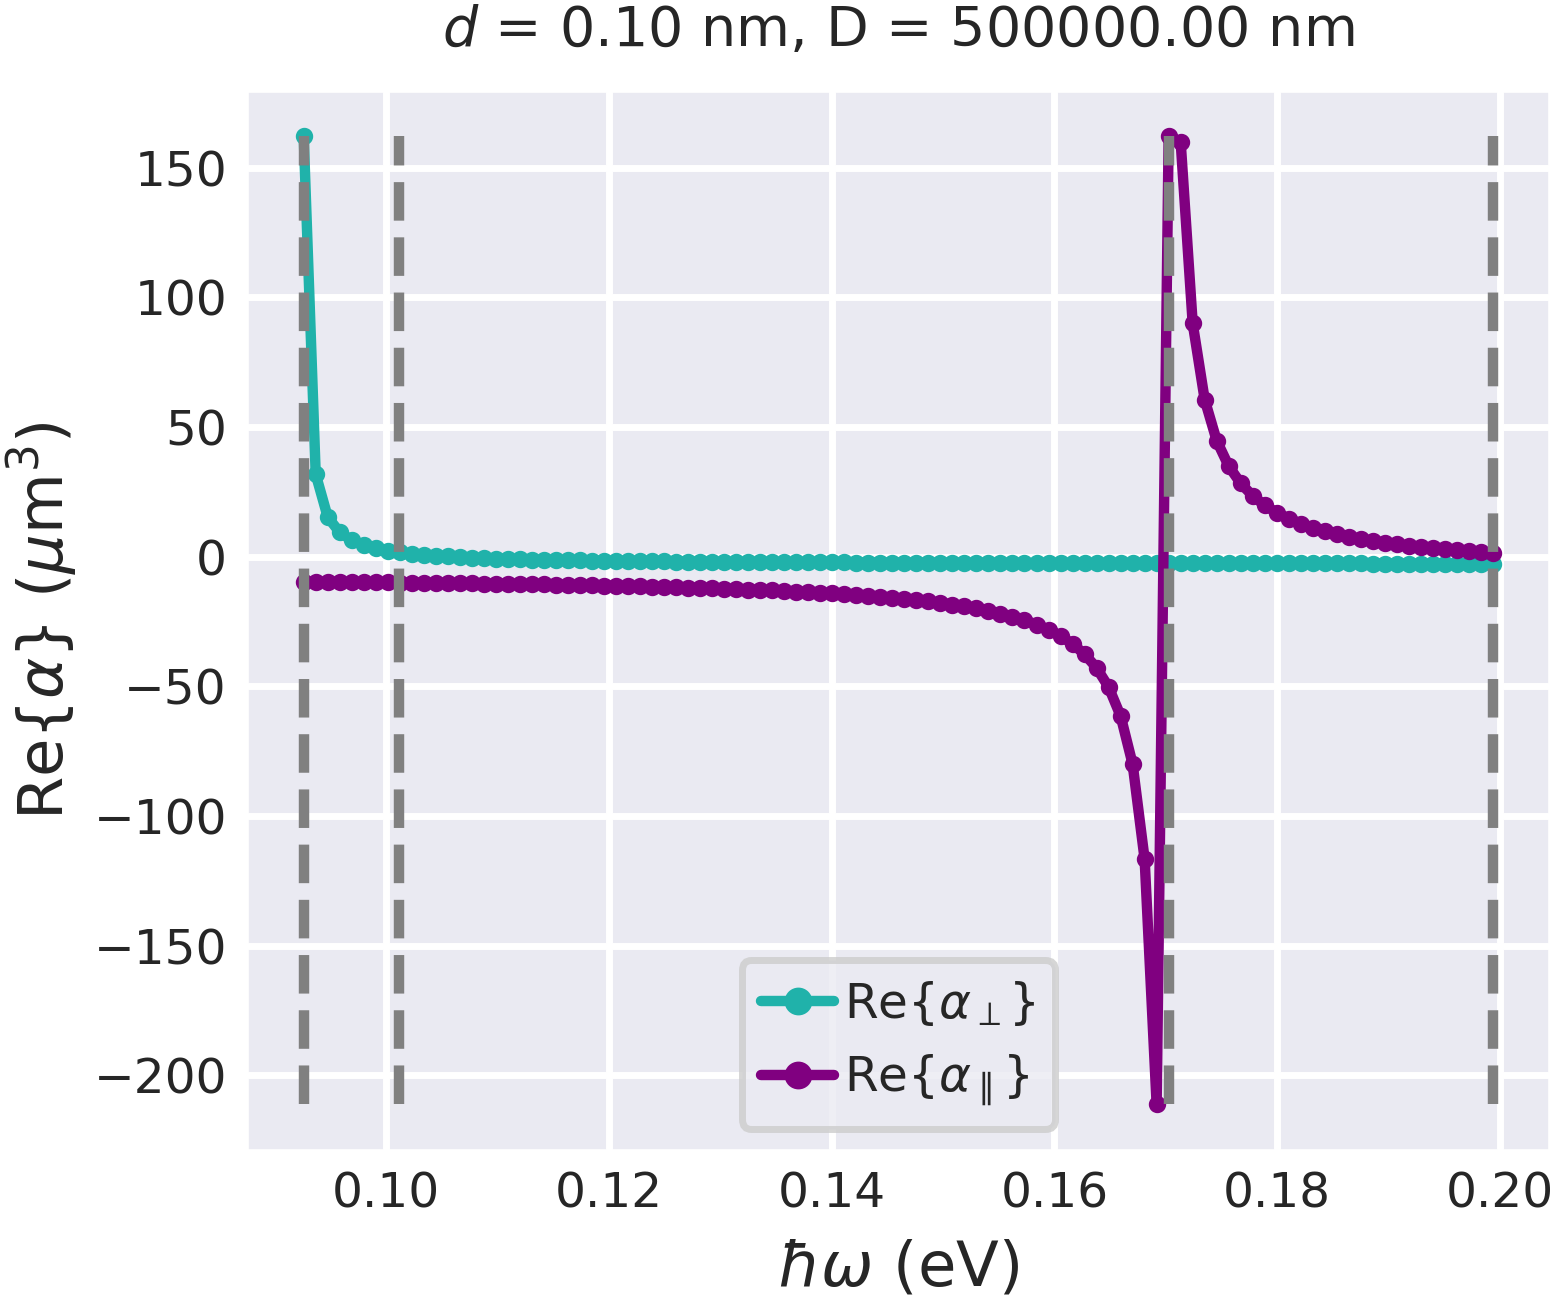
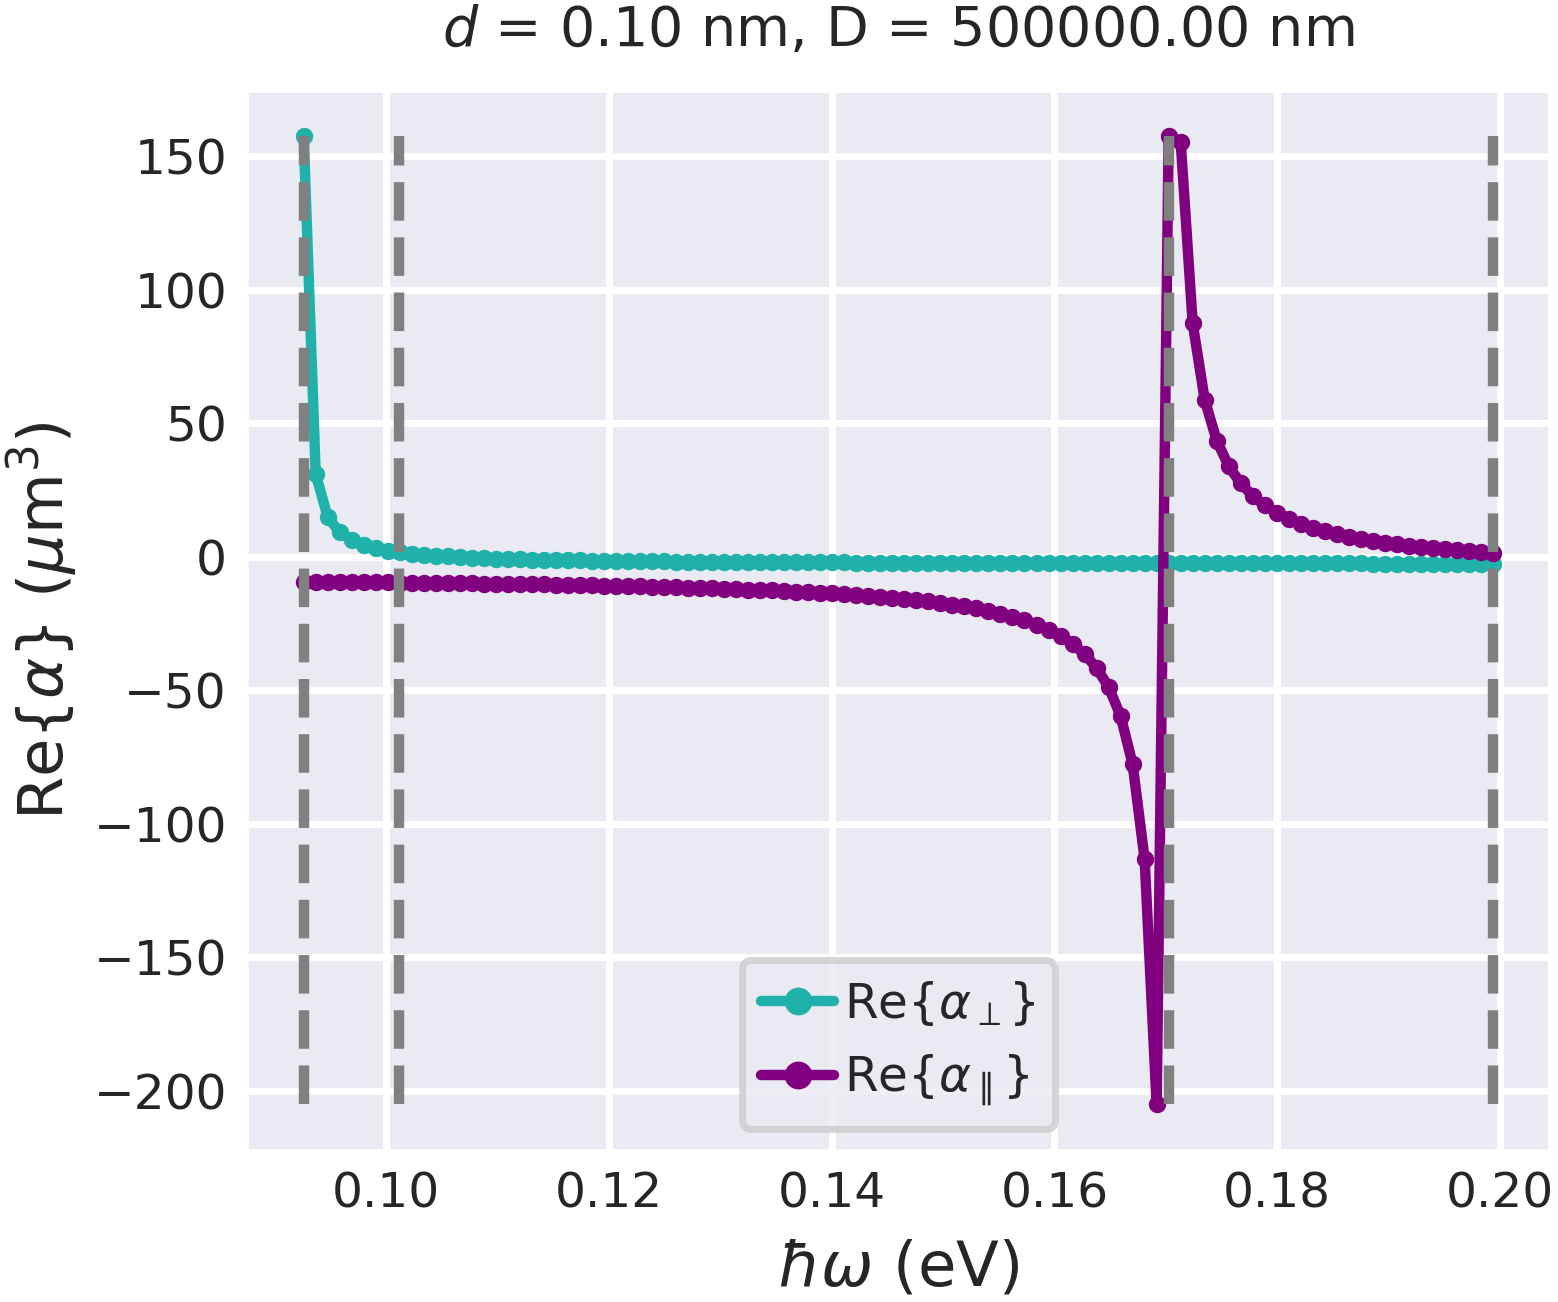
update from icfo dell

diff --git a/hBn-disks-v2/eff_polarizability_disk.py b/hBn-disks-v2/eff_polarizability_disk.py
@@ -78,7 +78,7 @@ def polarizability_parallel(hbw,d_film_nano,D_disk_nano,epsilon_silica):
     a_eta, b_eta, c_eta = 0.03801, -8.569, -0.1108
 
     
-    t = D_disk_nano
+    t = D_disk_nano*0.1  ### revisar si es 0.1 o 1
     x = t/D_disk_nano
     
     zeta1 = a_zeta*np.exp(b_zeta*x)  + c_zeta    
@@ -106,7 +106,7 @@ def polarizability_perp(hbw,d_film_nano,D_disk_nano,epsilon_silica):
     a_eta, b_eta, c_eta = 0.03801, -8.569, -0.1108
 
 
-    t = D_disk_nano
+    t = D_disk_nano*0.1  ### revisar si es 0.1 o 1
     x = t/D_disk_nano
     
     
